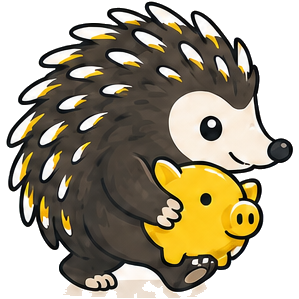
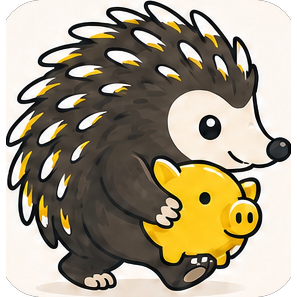
Use original artwork tiles for mascots; tighten story-card spacing
- Mascots now keep their original rounded-square tiles (dark/cream boxes)
  instead of background removal — build_mascots.py clean-crops each tile and
  applies a rounded-rect mask, preserving the illustrations exactly
- Reveal and share cards render the tiles (share card swaps the gold circle
  for the tile, keeping the gold doodles + CBA palette)
- Reduced the gap between the emoji and text on the driver/rewarding/
  community story cards by grouping glyph + heading + body

diff --git a/build_mascots.py b/build_mascots.py
@@ -1,27 +1,21 @@
 """
-Crop the supplied mascot illustration grid into 8 isolated, transparent PNGs.
+Crop the supplied mascot illustration grid into 8 rounded-square icon tiles.
 
 Input  : assets/mascots_source.png  (a 4-column x 2-row grid of mascot tiles)
-Output : assets/mascots/<driver>.png  (one per persona, background removed)
+Output : assets/mascots/<driver>.png  (one per persona)
 
-Pipeline per tile:
-  1. split the grid into 8 equal cells;
-  2. tight-crop to the rounded tile (drop the wide white gap);
-  3. isolate the centred animal from the solid tile fill, branching on whether
-     the tile is light (cream) or dark (navy) — they need different handling:
-       * light tiles: flood away pixels close to the cream/white fill;
-       * dark tiles: luminance-capped region-grow so the dark fill is removed
-         but light-coloured animals (and their interiors) survive;
-  4. keep only sizeable components that don't touch the border (drops the gap,
-     the anti-aliased ring and small floating tile decorations);
-  5. auto-crop + pad onto a square canvas.
+The original artwork already presents each mascot inside a rounded-square tile
+with its own dark or cream background (alternating across the grid). Rather
+than removing those backgrounds, we keep them: each cell is tight-cropped to
+its tile and a rounded-rectangle mask trims the outer white gap/corners, giving
+a clean app-icon-style tile that preserves the illustration exactly.
 
 Run:  python3 build_mascots.py
+Tune: CORNER_RADIUS if the rounded corners show white or clip the art.
 """
 import os
-from collections import Counter, deque
 
-from PIL import Image
+from PIL import Image, ImageDraw
 
 HERE = os.path.dirname(os.path.abspath(__file__))
 SRC = os.path.join(HERE, "assets", "mascots_source.png")
@@ -36,156 +30,48 @@ LAYOUT = {
 }
 
 COLS, ROWS = 4, 2
-GRID_MARGIN = 0.02   # fraction of each cell trimmed before tile detection
-PAD = 18             # transparent padding around the cropped subject
+GRID_MARGIN = 0.015     # trim a sliver off each cell before tile detection
 WHITE = (252, 252, 252, 255)
+WHITE_TOL = 30          # how close to pure white counts as the outer gap
+CORNER_RADIUS = 0.14    # rounded-corner radius as a fraction of the tile side
+SUPERSAMPLE = 4         # mask anti-aliasing quality
 
 
 def _close(a, b, tol):
     return abs(a[0] - b[0]) <= tol and abs(a[1] - b[1]) <= tol and abs(a[2] - b[2]) <= tol
 
 
-def _lum(c):
-    return 0.299 * c[0] + 0.587 * c[1] + 0.114 * c[2]
-
-
 def _tile_bbox(px, w, h):
-    """Bounding box of non-white pixels = the rounded tile within the cell."""
+    """Bounding box of the non-white region = the rounded tile within the cell."""
     minx, miny, maxx, maxy, found = w, h, 0, 0, False
     for y in range(0, h, 2):
         for x in range(0, w, 2):
-            if not _close(px[x, y], WHITE, 34):
+            if not _close(px[x, y], WHITE, WHITE_TOL):
                 found = True
                 minx, maxx = min(minx, x), max(maxx, x)
                 miny, maxy = min(miny, y), max(maxy, y)
     if not found:
         return (0, 0, w, h)
-    return (max(0, minx - 2), max(0, miny - 2), min(w, maxx + 3), min(h, maxy + 3))
+    return (max(0, minx), max(0, miny), min(w, maxx + 1), min(h, maxy + 1))
 
 
-def _sample_fill(px, w, h):
-    """Most common colour in a frame ring just inside the tile edges."""
-    cnt = Counter()
-    for fr in (0.06, 0.1, 0.14):
-        yt, yb = int(h * fr), int(h * (1 - fr))
-        for x in range(int(w * 0.06), int(w * 0.94), 4):
-            cnt[px[x, yt][:3]] += 1
-            cnt[px[x, yb][:3]] += 1
-        xl, xr = int(w * fr), int(w * (1 - fr))
-        for y in range(int(h * 0.06), int(h * 0.94), 4):
-            cnt[px[xl, y][:3]] += 1
-            cnt[px[xr, y][:3]] += 1
-    return cnt.most_common(1)[0][0]
-
-
-def _flood_light(px, w, h, colors, tol):
-    """Flood from the border, clearing pixels close to any of `colors`
-    (cream / white fill) and passing through already-transparent pixels."""
-    targets = [c if len(c) == 4 else c + (255,) for c in colors]
-    seen = [[False] * w for _ in range(h)]
-    q = deque((x, 0) for x in range(w))
-    q.extend((x, h - 1) for x in range(w))
-    q.extend((0, y) for y in range(h))
-    q.extend((w - 1, y) for y in range(h))
-    while q:
-        x, y = q.popleft()
-        if not (0 <= x < w and 0 <= y < h) or seen[y][x]:
-            continue
-        seen[y][x] = True
-        c = px[x, y]
-        if c[3] == 0 or any(_close(c, t, tol) for t in targets):
-            px[x, y] = (0, 0, 0, 0)
-            q.extend([(x + 1, y), (x - 1, y), (x, y + 1), (x, y - 1)])
-
-
-def _flood_dark(px, w, h, tol, lumcap):
-    """Region-grow from the border across the dark fill (and its gradient),
-    stopping at brighter pixels so light-coloured animals survive.
-
-    Passes through already-transparent pixels (the stripped white gap) with
-    `prev=None`, then adopts the first dark opaque pixel it meets as the new
-    frontier colour — so it still reaches the navy fill behind a white border.
-    """
-    seen = [[False] * w for _ in range(h)]
-    q = deque((x, 0, None) for x in range(w))
-    q.extend((x, h - 1, None) for x in range(w))
-    q.extend((0, y, None) for y in range(h))
-    q.extend((w - 1, y, None) for y in range(h))
-    while q:
-        x, y, prev = q.popleft()
-        if not (0 <= x < w and 0 <= y < h) or seen[y][x]:
-            continue
-        c = px[x, y]
-        if c[3] == 0:
-            seen[y][x] = True
-            nxt = prev
-        elif _lum(c) < lumcap and (prev is None or _close(c, prev, tol)):
-            seen[y][x] = True
-            px[x, y] = (0, 0, 0, 0)
-            nxt = c[:3]
-        else:
-            continue
-        q.extend([(x + 1, y, nxt), (x - 1, y, nxt), (x, y + 1, nxt), (x, y - 1, nxt)])
-
-
-def _keep_central(px, w, h):
-    """Drop opaque components that touch the border or are tiny (ring/specks)."""
-    seen = [[False] * w for _ in range(h)]
-    keep = [[False] * w for _ in range(h)]
-    min_area = w * h * 0.012
-    for sy in range(h):
-        for sx in range(w):
-            if seen[sy][sx] or px[sx, sy][3] == 0:
-                continue
-            comp, touches, stack = [], False, [(sx, sy)]
-            seen[sy][sx] = True
-            while stack:
-                x, y = stack.pop()
-                comp.append((x, y))
-                if x == 0 or y == 0 or x == w - 1 or y == h - 1:
-                    touches = True
-                for nx, ny in ((x + 1, y), (x - 1, y), (x, y + 1), (x, y - 1)):
-                    if 0 <= nx < w and 0 <= ny < h and not seen[ny][nx] and px[nx, ny][3] > 0:
-                        seen[ny][nx] = True
-                        stack.append((nx, ny))
-            if not touches and len(comp) >= min_area:
-                for x, y in comp:
-                    keep[y][x] = True
-    for y in range(h):
-        for x in range(w):
-            if not keep[y][x]:
-                px[x, y] = (0, 0, 0, 0)
-
-
-def _autocrop(tile, pad):
-    bbox = tile.getbbox()
-    if not bbox:
-        return tile
-    l, t, r, b = bbox
-    sub = tile.crop((max(0, l - pad), max(0, t - pad),
-                     min(tile.width, r + pad), min(tile.height, b + pad)))
-    side = max(sub.width, sub.height)
+def _rounded_square(tile):
+    """Centre the tile on a square canvas and apply a rounded-rect alpha mask."""
+    tw, th = tile.size
+    side = max(tw, th)
     canvas = Image.new("RGBA", (side, side), (0, 0, 0, 0))
-    canvas.paste(sub, ((side - sub.width) // 2, (side - sub.height) // 2), sub)
-    return canvas
+    canvas.paste(tile, ((side - tw) // 2, (side - th) // 2))
 
+    big = side * SUPERSAMPLE
+    mask = Image.new("L", (big, big), 0)
+    ImageDraw.Draw(mask).rounded_rectangle(
+        [0, 0, big - 1, big - 1], radius=int(big * CORNER_RADIUS), fill=255
+    )
+    mask = mask.resize((side, side), Image.LANCZOS)
 
-def _process_tile(cell):
-    cell = cell.convert("RGBA")
-    px = cell.load()
-    w, h = cell.size
-    cell = cell.crop(_tile_bbox(px, w, h))   # tight-crop to the tile
-    px = cell.load()
-    w, h = cell.size
-
-    fill = _sample_fill(px, w, h)
-    if _lum(fill) > 150:                      # light (cream) tile
-        _flood_light(px, w, h, [fill, WHITE], 30)
-    else:                                     # dark (navy) tile
-        _flood_light(px, w, h, [WHITE], 30)   # strip the white gap first
-        _flood_dark(px, w, h, 14, 120)        # then remove the (uniform) navy fill
-    _keep_central(px, w, h)
-    return _autocrop(cell, PAD)
+    out = Image.new("RGBA", (side, side), (0, 0, 0, 0))
+    out.paste(canvas, (0, 0), mask)
+    return out
 
 
 def main():
@@ -201,14 +87,16 @@ def main():
     mx, my = cw * GRID_MARGIN, ch * GRID_MARGIN
 
     for (row, col), driver in LAYOUT.items():
-        box = (int(col * cw + mx), int(row * ch + my),
-               int((col + 1) * cw - mx), int((row + 1) * ch - my))
-        out_img = _process_tile(img.crop(box))
+        cell = img.crop((int(col * cw + mx), int(row * ch + my),
+                         int((col + 1) * cw - mx), int((row + 1) * ch - my)))
+        px = cell.load()
+        cell = cell.crop(_tile_bbox(px, cell.width, cell.height))
+        out_img = _rounded_square(cell)
         out = os.path.join(OUT_DIR, f"{driver}.png")
         out_img.save(out)
         print(f"  ✓ {driver:13s} {out_img.size}  ->  {os.path.relpath(out, HERE)}")
 
-    print("Done. Re-run generate.py (and restart the app) to use the new mascots.")
+    print("Done. Re-run generate.py (and restart the app) to use the new tiles.")
 
 
 if __name__ == "__main__":

diff --git a/phone_ui.py b/phone_ui.py
@@ -118,9 +118,9 @@ def _cards(wrap):
         <span class="kicker reveal-up d1">Your driver</span>
         <div class="spacer"></div>
         <div class="glyph float reveal-up d2">{DRIVER_ICON.get(wrap['driver'], '✨')}</div>
-        <div class="spacer"></div>
         <h2 class="reveal-up d3">{wrap['driver_label']} shaped your year</h2>
         <p class="lead reveal-up d4">{wrap['driver_copy']}</p>
+        <div class="spacer"></div>
       </div>
     </section>""")
 
@@ -162,9 +162,9 @@ def _cards(wrap):
         <span class="kicker reveal-up d1">Rewarding you</span>
         <div class="spacer"></div>
         <div class="glyph reveal-up d2">🌱</div>
-        <div class="spacer"></div>
         <h2 class="reveal-up d3">A year that paid you back</h2>
         <p class="lead reveal-up d4">{wrap['rewarding_copy']}</p>
+        <div class="spacer"></div>
       </div>
     </section>""")
 
@@ -176,9 +176,9 @@ def _cards(wrap):
         <span class="kicker reveal-up d1">Community impact</span>
         <div class="spacer"></div>
         <div class="glyph reveal-up d2">🤝</div>
-        <div class="spacer"></div>
         <h2 class="reveal-up d3">Bigger than your balance</h2>
         <p class="lead reveal-up d4">{wrap['community_copy']}</p>
+        <div class="spacer"></div>
       </div>
     </section>""")
 
@@ -190,7 +190,7 @@ def _cards(wrap):
       <div class="card-inner">
         <span class="kicker reveal-up d1" style="text-align:center">Your {year} Money Spirit is…</span>
         <div class="spacer"></div>
-        <div class="mascot-stage reveal-up d2"><div class="halo"></div><div class="mascot lg float">{p['art']}</div></div>
+        <div class="mascot lg float reveal-up d2">{p['art']}</div>
         <div class="reveal-name reveal-up d3">{p['name']}</div>
         <div class="reveal-title reveal-up d3">{p['title']}</div>
         <div class="chips reveal-up d4" style="justify-content:center;margin-top:12px">{traits}</div>
@@ -307,22 +307,16 @@ _CSS = """
   .card.active .d3 { animation-delay:.44s; } .card.active .d4 { animation-delay:.6s; }
   @keyframes up { to { opacity:1; transform:translateY(0); } }
 
-  .glyph { font-size:104px; line-height:1; text-align:center; filter:drop-shadow(0 14px 30px rgba(0,0,0,.45)); }
+  .glyph { font-size:86px; line-height:1; text-align:center; margin-bottom:14px;
+    filter:drop-shadow(0 12px 26px rgba(0,0,0,.45)); }
   .glyph.float, .mascot.float { animation:floaty 4s ease-in-out infinite; }
-  @keyframes floaty { 0%,100% {transform:translateY(0)} 50% {transform:translateY(-10px)} }
+  @keyframes floaty { 0%,100% {transform:translateY(0)} 50% {transform:translateY(-9px)} }
 
-  .mascot { margin:0 auto; filter:drop-shadow(0 16px 26px rgba(0,0,0,.4)); }
+  /* mascot tiles keep their original rounded-square artwork */
+  .mascot { margin:0 auto; filter:drop-shadow(0 16px 28px rgba(0,0,0,.55)); }
   .mascot svg, .mascot img { width:100%; height:100%; display:block; object-fit:contain; }
-  .mascot.lg { width:172px; height:172px; }
-  .mascot.xs { width:46px; height:46px; margin:0; filter:none; flex:0 0 auto; }
-
-  /* reveal mascot with a soft golden spotlight halo */
-  .mascot-stage { position:relative; width:200px; height:188px; margin:0 auto; display:flex; align-items:center; justify-content:center; }
-  .mascot-stage .mascot.lg { position:relative; z-index:2; margin:0; }
-  .halo { position:absolute; width:188px; height:188px; border-radius:50%; z-index:1;
-    background:radial-gradient(circle, rgba(255,204,0,.34) 0%, rgba(255,204,0,.12) 45%, transparent 70%);
-    animation:halo 3.5s ease-in-out infinite; }
-  @keyframes halo { 0%,100% {transform:scale(1);opacity:.9} 50% {transform:scale(1.08);opacity:1} }
+  .mascot.lg { width:178px; height:178px; }
+  .mascot.xs { width:50px; height:50px; margin:0; filter:none; flex:0 0 auto; border-radius:11px; overflow:hidden; }
 
   .chips { display:flex; flex-wrap:wrap; gap:8px; }
   .chip { padding:7px 13px; border-radius:999px; font-size:13.5px; font-weight:700;
@@ -372,8 +366,7 @@ _CSS = """
   .card.share .igc-card { width:288px; padding:20px 18px 18px; }
   .card.share .igc-head { font-size:23px; }
   .card.share .igc-orbit { width:194px; height:194px; }
-  .card.share .igc-circle { width:140px; height:140px; }
-  .card.share .igc-mascot { width:114px; height:114px; }
+  .card.share .igc-tile { width:138px; height:138px; }
   .card.share .igc-cta { padding:12px 16px; font-size:14px; margin-top:16px; }
 
   /* bottom controls + retail tab bar (CommBank app chrome) */

diff --git a/share_card.py b/share_card.py
@@ -104,9 +104,7 @@ def render_share_card(persona, year=2026, logo_html="", *, standalone=False):
   <div class="igc-head">Here's my {year}<br/>Money Spirit</div>
 
   <div class="igc-orbit">
-    <div class="igc-circle">
-      <div class="igc-mascot">{art}</div>
-    </div>
+    <div class="igc-tile">{art}</div>
     {doodles}
   </div>
 
@@ -139,16 +137,10 @@ def render_share_card(persona, year=2026, logo_html="", *, standalone=False):
     font-size:27px; line-height:1.12; letter-spacing:-.3px; margin:14px 0 6px; }}
 
   .igc-orbit {{ position:relative; width:230px; height:230px; margin:6px auto 4px; z-index:2; }}
-  .igc-circle {{ position:absolute; left:50%; top:50%; transform:translate(-50%,-50%);
-    width:160px; height:160px; border-radius:50%;
-    background:radial-gradient(circle at 50% 36%, #FFF4CC 0%, #FFE07A 52%, #FFCC00 100%);
-    box-shadow:inset 0 0 0 6px rgba(255,255,255,.65), 0 8px 22px rgba(255,204,0,.35);
-    display:flex; align-items:center; justify-content:center; }}
-  .igc-mascot {{ width:132px; height:132px; display:flex; align-items:center; justify-content:center; }}
-  .igc-mascot svg {{ width:100%; height:100%; display:block;
-    filter:drop-shadow(0 6px 10px rgba(0,0,0,.18)); }}
-  .igc-mascot img {{ width:100%; height:100%; object-fit:contain;
-    filter:drop-shadow(0 6px 10px rgba(0,0,0,.2)); }}
+  .igc-tile {{ position:absolute; left:50%; top:50%; transform:translate(-50%,-50%);
+    width:158px; height:158px; display:flex; align-items:center; justify-content:center;
+    filter:drop-shadow(0 10px 20px rgba(0,0,0,.28)); }}
+  .igc-tile svg, .igc-tile img {{ width:100%; height:100%; object-fit:contain; display:block; }}
   .igc-doodle {{ position:absolute; opacity:.9; }}
 
   .igc-name {{ position:relative; z-index:2; color:{INK}; font-weight:900;
